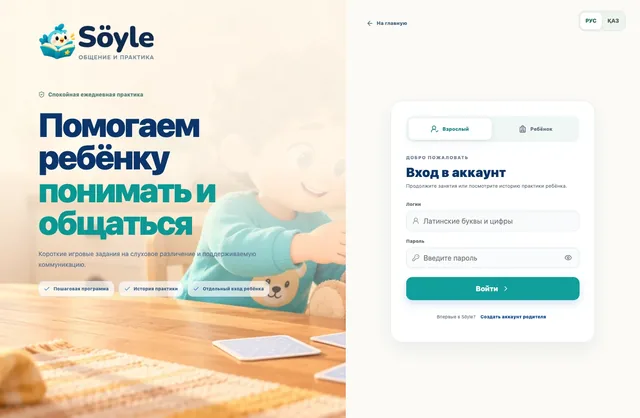
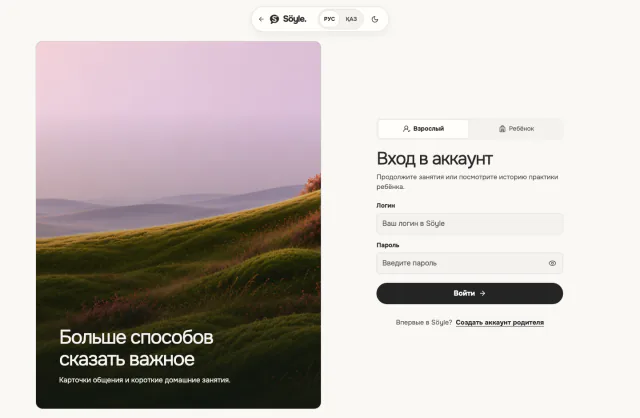
Refresh Soyle landing and auth screenshots with dark mode previews

diff --git a/src/project-screens.js b/src/project-screens.js
@@ -107,6 +107,8 @@ const galleries = {
  ],
  soyle: [
   ["landing", "Welcome to Söyle"],
+  ["landing-dark", "Landing page in dark mode"],
+  ["landing-plan-dark", "Weekly practice preview in dark mode"],
   ["child-home", "The playroom"],
   ["child-nav-1", "Activity catalog"],
   ["game-sensory-auditory_choice", "Listen and choose an animal"],
@@ -124,8 +126,8 @@ const galleries = {
   ["parent-assistant", "Family assistant"],
   ["specialist-children", "Specialist caseload"],
   ["specialist-recommendations", "Practice recommendations"],
-  ["admin-exercises", "Exercise management"],
   ["login", "Sign in"],
+  ["register", "Create a parent account"],
  ],
  chatra: [
   ["landing", "Introducing Chatra"],
